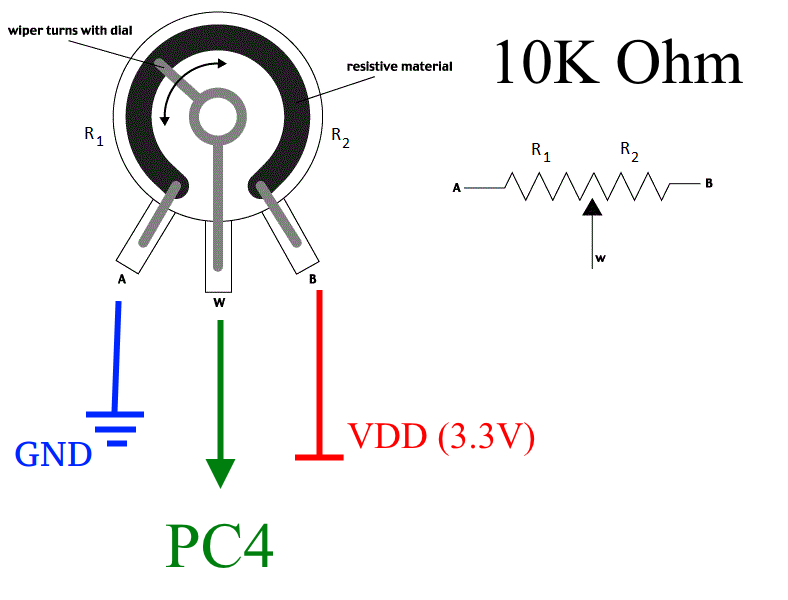
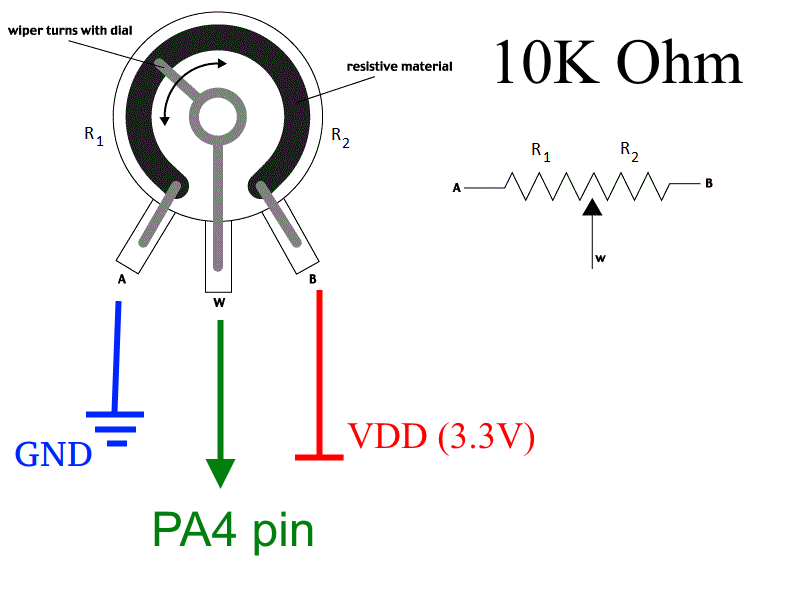
Fix STM32F103C8T6-Blue-Pill docs

Changed region(s): [[0.1827, 0.84, 0.3959, 0.96]]

diff --git a/STM32F103C8T6-Blue-Pill/README.md b/STM32F103C8T6-Blue-Pill/README.md
@@ -125,7 +125,7 @@ $tar -xf remcu-*.tar
 
 ### C++ programs
 
-A small application ADC_line receives the ADC data and builds a horizontal bar chart  based on this value. Plug a variable resistor into the PA4 pin and run the application.  
+A small application ***ADC_line*** receives the ADC data and builds a horizontal bar chart  based on this value. Plug a variable resistor into the PA4 pin and run the application.  
 <details>
   <summary> show 
 <b>(click here) </b></summary>
@@ -142,7 +142,7 @@ Rotate the shaft and you will get the voltage versus time chart.
 ![adc_line](img/rasp_adc.gif)  
 </details>
 
-There are two examples to work with CAN bus, *CAN_send* and *CAN_receiver*. These examples work on 125 kBps. For other baud rates and this clock configuration(see system_stm32f10x.c), the CAN Initialization code (Prescaler value) should be amended accordingly:  
+There are two examples to work with CAN bus, ***CAN_send*** and ***CAN_receiver*** programs. These examples work on 125 kBps. For other baud rates and this clock configuration(see system_stm32f10x.c), the CAN Initialization code (Prescaler value) should be amended accordingly:  
 ```cpp
   //CAN_InitStructure.CAN_Prescaler = 4*16; //Prescaler for 62.5 kBps
   CAN_InitStructure.CAN_Prescaler = 4*8; //Prescaler for 125 kBps
@@ -160,14 +160,14 @@ show(<b>click here</b>) </summary>
 
 </details>
 
-The *CAN_receiver* is a simple app that captures all CAN bus messages on the bus. Just run *CAN_receiver* app and look at the results:  
+The ***CAN_receiver*** is a simple app that captures all CAN bus messages on the bus. Just run *CAN_receiver* app and look at the results:  
 <details><summary>
 show(<b>click here</b>) </summary>
 
 ![](img/can_demo_receiver.gif)
 </details>
 
-The *CAN_send* is a simple app that send one message obtained through the program arguments. Example of using:  
+The ***CAN_send*** is a simple app that send one message obtained through the program arguments. Example of using:  
 <details><summary>
 show(<b>click here</b>) </summary>
 
@@ -206,7 +206,7 @@ python gpio.py
   * **ADC_line.py** script builds a horizontal bar chart of the ADC value versus time like the *C* ADC_line application.
 <details>
   <summary>
-	<b>show(click here) </b></summary>
+	show <b>(click here) </b></summary>
 
 ![adc_line](img/rasp_adc.gif)  
 </details>
@@ -276,7 +276,7 @@ Install [**Anaconda Distribution**](https://www.anaconda.com/distribution/). Run
 ![](../stm32f4_discovery/jupyter-notebook/img/xwidgets.png)
 ![](../stm32f4_discovery/jupyter-notebook/img/xplot.png)
 </details>
-Run Jupyter Notebook and open the *Cpp_Examples.ipynb* file in it. The script contains detailed comments for work. You just do step by step code of the script and observe the results.  
+Run Jupyter Notebook and open the "Cpp_Examples.ipynb" file in it. The script contains detailed comments for work. You just do step by step code of the script and observe the results.  
 <details>
   <summary>
 	ADC graph<b>(click here)</b></summary>
@@ -324,7 +324,8 @@ openocd.exe -f interface/stlink-v2.cfg -f target/stm32f1x.cfg
 ![stlink_windows](img/openocd.png)
 
 Install the [Anaconda Distribution](https://www.anaconda.com/distribution/) and [ipywidgets](https://ipywidgets.readthedocs.io/en/stable/user_install.html) package. ***We encourage you use Python 2 version***. We can not guarantee the work of the script with Python 3.  
-Run Jupyter Notebook and open the Python_Examples.ipynb file in it.  
+
+Run Jupyter Notebook and open the ***Python_Examples.ipynb*** file in it.  
 The script contains detailed comments for work. You just do step by step code of the script and observe the results.  
 ![run py script](img/f103_adc.gif)
 
